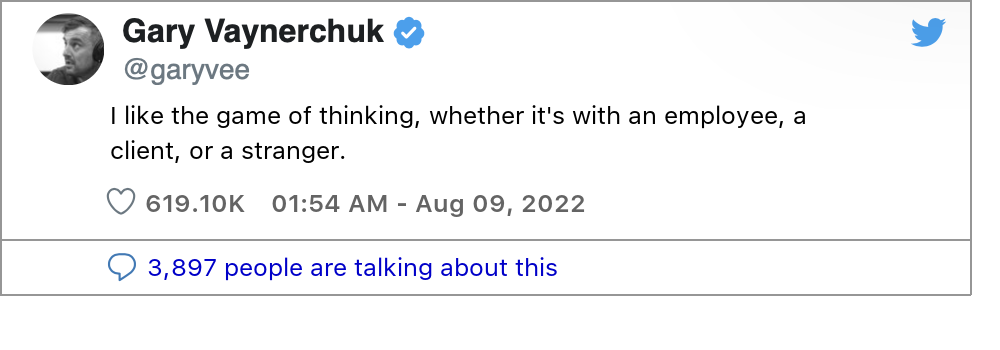
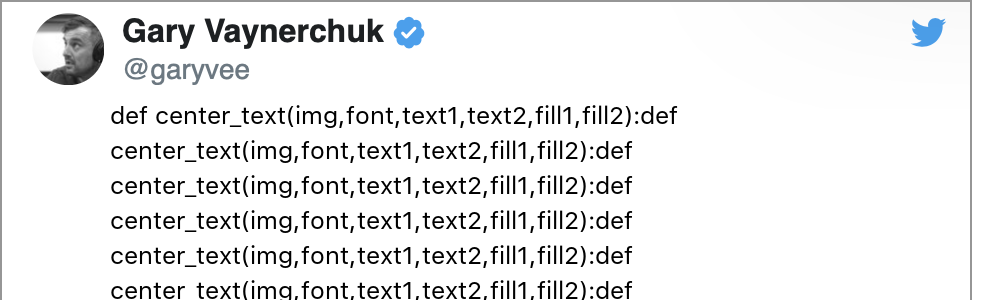
trying to fix small picture resizing issue

Changed region(s): [[0.0, 0.0, 0.992, 0.9], [0.093, 0.93, 0.651, 1.0]]

diff --git a/tweetGen.py b/tweetGen.py
@@ -36,7 +36,7 @@ def getTime():
 	now = datetime.time.now()
 	print(now)
 
-def checkSizeOfText(tweetText,size=200):
+def checkSizeOfText(tweetText,size=150):
 
 	
 	veeProfilePic = Image.open('images/veeProfilePic.png')
@@ -51,6 +51,7 @@ def checkSizeOfText(tweetText,size=200):
 	print("Height of text:",textH)
 	print("Width of PP:",vPPWidth)
 	print("Height of PP:",vPPHeight)
+	print("HH: ", size)
 	
 
 	#Check size
@@ -65,17 +66,18 @@ def checkSizeOfText(tweetText,size=200):
 	offset=100
 	# wrapText(draw,tweetText,font2)
 	lines = textwrap.wrap(tweetText, width=65)
+	print("len:",len(lines))
 	for line in lines:
 		drawing.text((110,offset), line, fill=(0,0,0), font=font2)
 		offset+=35
 	returnSize = size
 	print("OFFSET!",offset,"| SIZE:",size)
 	#Check if the text is too big and we need to make the picture bigger
-	if(offset+150 > size):
-		returnSize = checkSizeOfText(tweetText,size+75)
+	if(offset+125 > size):
+		returnSize = checkSizeOfText(tweetText,size+50)
 	return returnSize
 
-def createTweet(tweetText="No TEXT",size=500):
+def createTweet(tweetText="No TEXT",size=400):
 
 
 
@@ -87,15 +89,16 @@ def createTweet(tweetText="No TEXT",size=500):
 	drawing = ImageDraw.Draw(draw)
 	textW,textH = drawing.textsize(tweetText)
 	vPPWidth,vPPHeight = veeProfilePic.size
-	print("Width of text:",textW)
-	print("Height of text:",textH)
-	print("Width of PP:",vPPWidth)
-	print("Height of PP:",vPPHeight)
+	# print("Width of text:",textW)
+	# print("Height of text:",textH)
+	# print("Width of PP:",vPPWidth)
+	# print("Height of PP:",vPPHeight)
+	
 	
 
 	#Check size
 	widthFont2 = font2.getlength(tweetText)
-	print("W:",widthFont2)
+	# print("W:",widthFont2)
 	# if widthFont2 > vPPWidth:
 	# 	print("text too big")
 	
@@ -110,8 +113,8 @@ def createTweet(tweetText="No TEXT",size=500):
 		offset+=35
 
 	#Check if the text is too big and we need to make the picture bigger
-	if(offset > 400):
-		print("Too big! Need to resize image")
+	# if(offset > 400):
+	# 	print("Too big! Need to resize image")
 
 	heart = Image.open("images/heart.png","r")
 	heartW, heartH = heart.size
@@ -185,9 +188,6 @@ def createTweet(tweetText="No TEXT",size=500):
 	draw.show()
 	draw.save("tmp.png")
 
-tweetText = "Something that happened yesterday, has nothing to do with tomorrow."
-mySize = checkSizeOfText(tweetText)
-
 
 
 def generateText():
@@ -204,7 +204,10 @@ def generateText():
 #============================================
 # Running the program
 #============================================
-createTweet(generateText(),mySize)
+genText = generateText()
+mySize = checkSizeOfText(genText)
+genText = "def center_text(img,font,text1,text2,fill1,fill2):def center_text(img,font,text1,text2,fill1,fill2):def center_text(img,font,text1,text2,fill1,fill2):def center_text(img,font,text1,text2,fill1,fill2):def center_text(img,font,text1,text2,fill1,fill2):def center_text(img,font,text1,text2,fill1,fill2):def center_text(img,font,text1,text2,fill1,fill2):def center_text(img,font,text1,text2,fill1,fill2):def center_text(img,font,text1,text2,fill1,fill2):def center_text(img,font,text1,text2,fill1,fill2):def center_text(img,font,text1,text2,fill1,fill2):def center_text(img,font,text1,text2,fill1,fill2):def center_text(img,font,text1,text2,fill1,fill2):def center_text(img,font,text1,text2,fill1,fill2):def center_text(img,font,text1,text2,fill1,fill2):def center_text(img,font,text1,text2,fill1,fill2):def center_text(img,font,text1,text2,fill1,fill2):def center_text(img,font,text1,text2,fill1,fill2):def center_text(img,font,text1,text2,fill1,fill2):"
+createTweet(genText,mySize)
 
 
 
